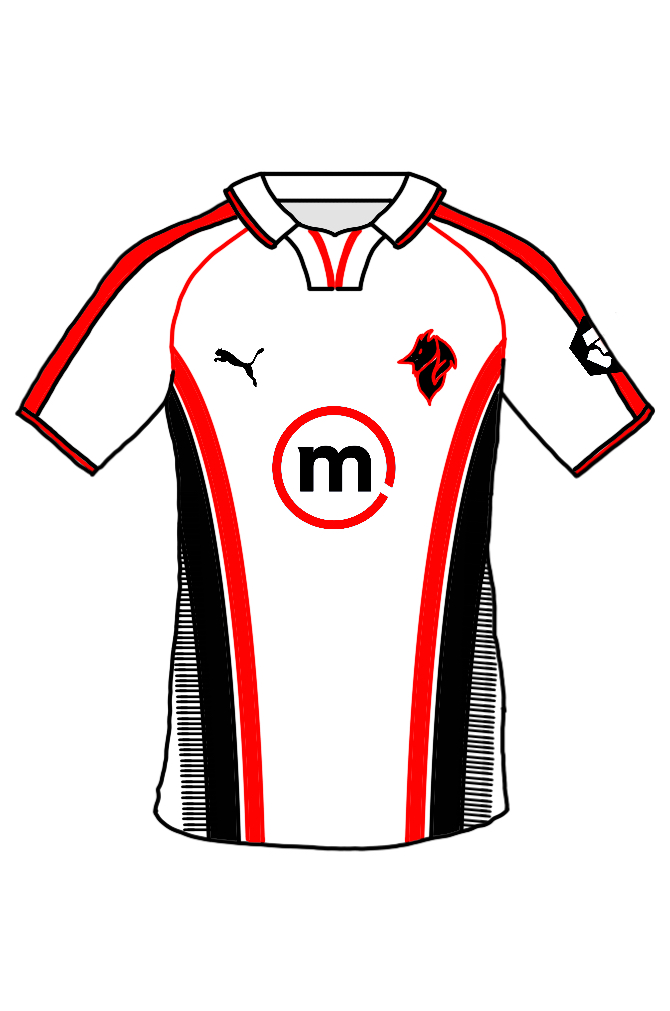
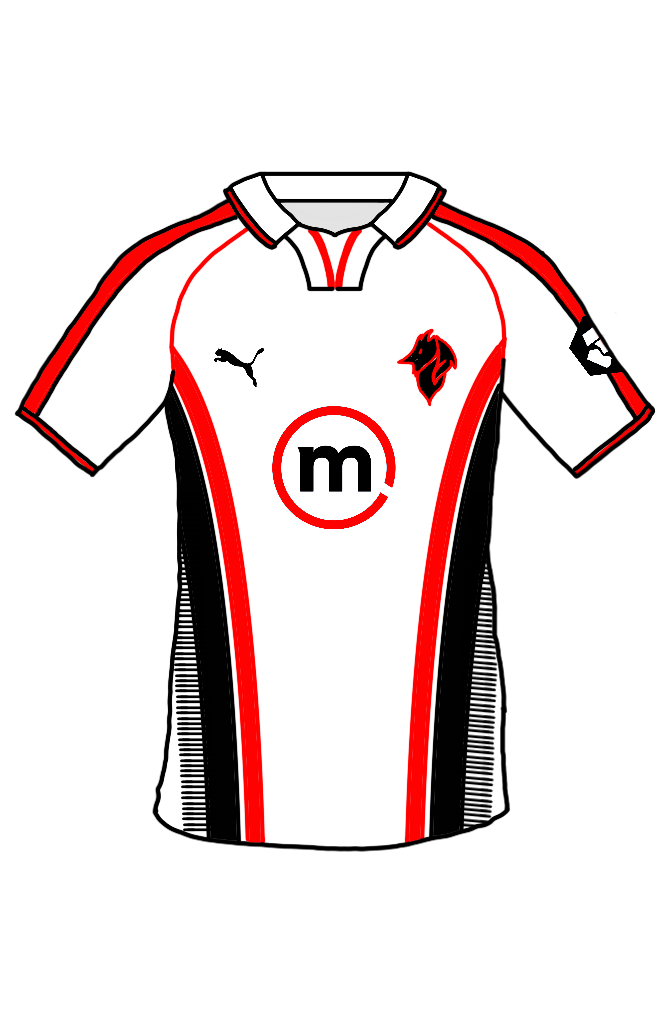
Aggiunti loghi squadre

Changed region(s): [[0.7463, 0.7666, 0.7761, 0.7972], [0.7463, 0.6746, 0.7761, 0.7052], [0.7463, 0.3986, 0.7761, 0.4293]]

diff --git a/lib/app/models/campionato/campionatoMatchModel.dart b/lib/app/models/campionato/campionatoMatchModel.dart
@@ -73,15 +73,15 @@ Widget buildCampionatoMatch(CampionatoMatchModel model, BuildContext context) {
               model.squadraAway!.categoria != 'Serie C' &&
               model.squadraAway!.categoria != 'Serie D';
 
-          if (isHomeEstera && isAwayEstera) {
-            // Controlla se l'utente è admin e se la partita non è già salvata
-            if (globals.admin && !model.partita.salvata) {
-              // Mostra dialog per inserire risultato manualmente
-              await _showRisultatoDialog(context, model);
-            }
-            // Se non è admin o la partita è salvata, non fa nulla
+          if (isHomeEstera &&
+              isAwayEstera &&
+              globals.admin &&
+              !model.partita.salvata) {
+            // Se entrambe le squadre sono estere, l'utente è admin e la partita non è salvata
+            // mostra dialog per inserire risultato manualmente
+            await _showRisultatoDialog(context, model);
           } else {
-            // Naviga alla pagina di dettaglio
+            // In tutti gli altri casi, naviga alla pagina di dettaglio
             final shouldRefresh = await Navigator.push(
               context,
               MaterialPageRoute(
